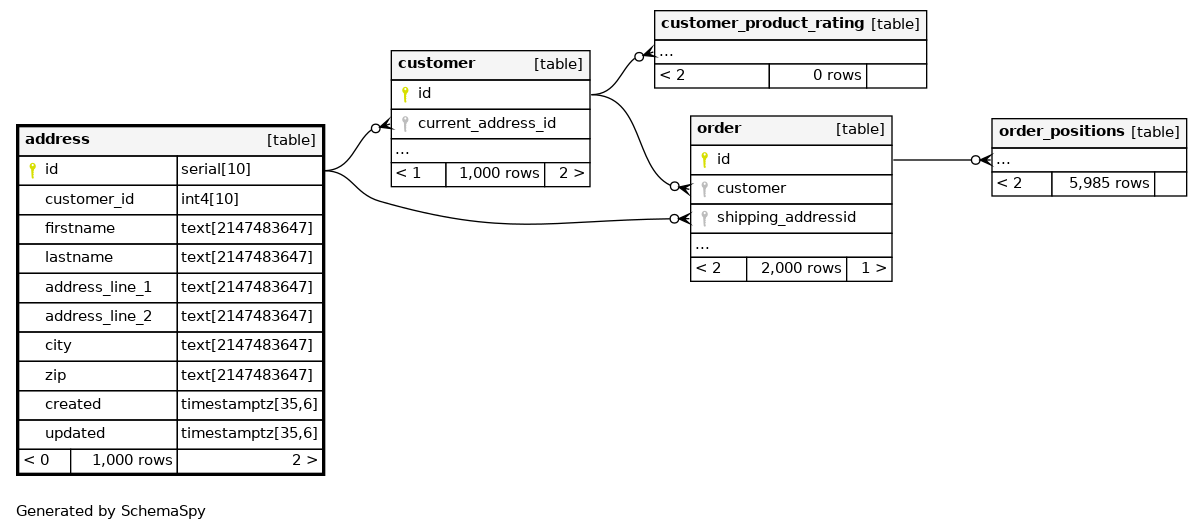
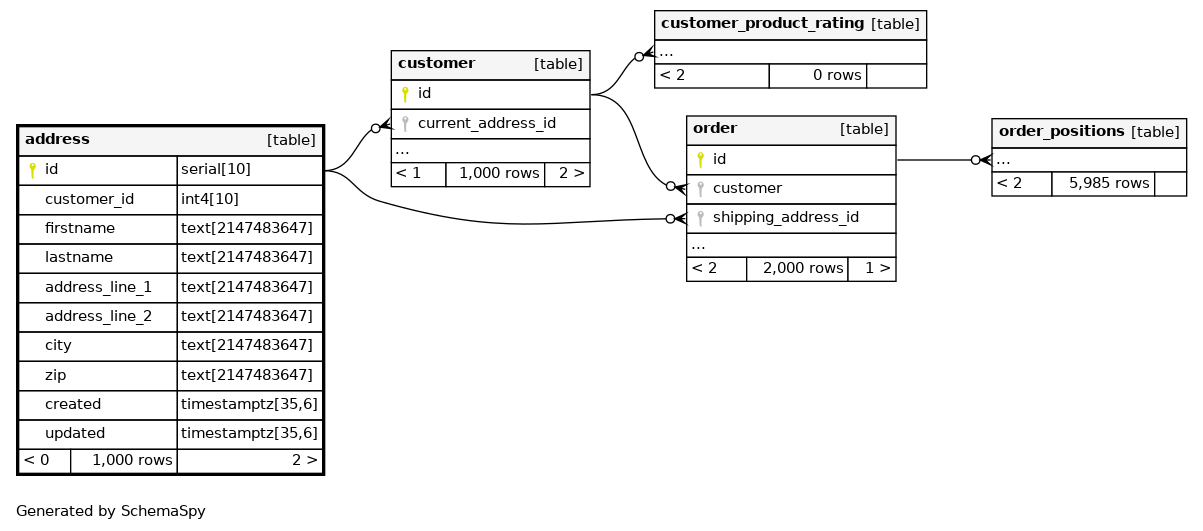
name cleanup

Changed region(s): [[0.5229, 0.2109, 0.7689, 0.5122], [0.4613, 0.3917, 0.5229, 0.4218]]

diff --git a/schema/tables/order.html b/schema/tables/order.html
@@ -194,7 +194,7 @@
 				 <td></td>
 				</tr>
 				<tr>
-				 <td class='foreignKey' title='Foreign Key'><i class='icon ion-key iconkey' style='padding-left: 5px;'></i><span id="shipping_addressid">shipping_addressid</span></td>
+				 <td class='foreignKey' title='Foreign Key'><i class='icon ion-key iconkey' style='padding-left: 5px;'></i><span id="shipping_address_id">shipping_address_id</span></td>
 				 <td>int4</td>
 				 <td>10</td>
 				 <td title='nullable'>√</td>
@@ -207,11 +207,11 @@
 				 <td>
 				  <table border='0' cellspacing='0' cellpadding='0'>
 				   <tr>
-					<td title="order.shipping_addressid references address.id via order_shipping_addressid_fkey">
+					<td title="order.shipping_address_id references address.id via order_shipping_address_id_fkey">
 						<a href='address.html'>address</a><span class='relatedKey'>.id</span>
 					</td>
 					<td class="constraint detail">
-						order_shipping_addressid_fkey <span title='Restrict delete:&#10;Parent cannot be deleted if children exist'>R</span>
+						order_shipping_address_id_fkey <span title='Restrict delete:&#10;Parent cannot be deleted if children exist'>R</span>
 					</td>
 				   </tr>
 				  </table>					 
@@ -236,7 +236,7 @@
 				 <td></td>
 				</tr>
 				<tr>
-				 <td><span id="shippingcost">shippingcost</span></td>
+				 <td><span id="shipping_cost">shipping_cost</span></td>
 				 <td>money</td>
 				 <td>2147483647</td>
 				 <td title='nullable'>√</td>
@@ -349,8 +349,8 @@
 					<map id="oneDegreeRelationshipsDiagram" name="oneDegreeRelationshipsDiagram">
 <area shape="rect" id="node1" href="customer.html" title="customer" alt="" coords="229,31,449,177">
 <area shape="rect" id="node2" href="address.html" title="address" alt="" coords="5,108,185,225">
-<area shape="rect" id="node3" href="order.html" title="order" alt="" coords="493,32,883,336">
-<area shape="rect" id="node4" href="order_positions.html" title="order_positions" alt="" coords="927,5,1143,181">
+<area shape="rect" id="node3" href="order.html" title="order" alt="" coords="493,32,891,336">
+<area shape="rect" id="node4" href="order_positions.html" title="order_positions" alt="" coords="935,5,1151,181">
 </map>
 
 					<a name='diagram'><img id='oneDegreeImg' src='../diagrams/order.1degree.png' usemap='#oneDegreeRelationshipsDiagram' class='diagram' border='0' alt='' align='left'></a>							
@@ -359,10 +359,10 @@
 					<map id="twoDegreesRelationshipsDiagram" name="twoDegreesRelationshipsDiagram">
 <area shape="rect" id="node1" href="customer.html" title="customer" alt="" coords="229,77,449,224">
 <area shape="rect" id="node2" href="address.html" title="address" alt="" coords="5,155,185,272">
-<area shape="rect" id="node3" href="customer_product_rating.html" title="customer_product_rating" alt="" coords="541,5,835,93">
-<area shape="rect" id="node4" href="order.html" title="order" alt="" coords="493,111,883,415">
-<area shape="rect" id="node5" href="order_positions.html" title="order_positions" alt="" coords="927,228,1143,404">
-<area shape="rect" id="node6" href="articles.html" title="articles" alt="" coords="593,432,783,520">
+<area shape="rect" id="node3" href="customer_product_rating.html" title="customer_product_rating" alt="" coords="545,5,839,93">
+<area shape="rect" id="node4" href="order.html" title="order" alt="" coords="493,111,891,415">
+<area shape="rect" id="node5" href="order_positions.html" title="order_positions" alt="" coords="935,228,1151,404">
+<area shape="rect" id="node6" href="articles.html" title="articles" alt="" coords="597,432,787,520">
 </map>
 
 					<a name='diagram'><img id='twodegreesDegreeImg' src='../diagrams/order.2degrees.png' usemap='#twoDegreesRelationshipsDiagram' class='diagram' border='0' alt='' align='left'></a>							

diff --git a/schema/tables/order_positions.html b/schema/tables/order_positions.html
@@ -322,24 +322,24 @@
             <div class="tab-content no-padding">            
 				<div class="chart tab-pane active" id="oneDegreeImg-chart" style="position: relative; overflow-x:auto;">					
 					<map id="oneDegreeRelationshipsDiagram" name="oneDegreeRelationshipsDiagram">
-<area shape="rect" id="node1" href="order_positions.html" title="order_positions" alt="" coords="272,56,627,331">
-<area shape="rect" id="node2" href="articles.html" title="articles" alt="" coords="15,199,219,345">
-<area shape="rect" id="node3" href="order.html" title="order" alt="" coords="5,5,228,181">
+<area shape="rect" id="node1" href="order_positions.html" title="order_positions" alt="" coords="280,56,635,331">
+<area shape="rect" id="node2" href="articles.html" title="articles" alt="" coords="19,199,223,345">
+<area shape="rect" id="node3" href="order.html" title="order" alt="" coords="5,5,236,181">
 </map>
 
 					<a name='diagram'><img id='oneDegreeImg' src='../diagrams/order_positions.1degree.png' usemap='#oneDegreeRelationshipsDiagram' class='diagram' border='0' alt='' align='left'></a>							
 				</div>
 				<div class="chart tab-pane " id="twodegreesDegreeImg-chart" style="position: relative; overflow-x:auto;">					
 					<map id="twoDegreesRelationshipsDiagram" name="twoDegreesRelationshipsDiagram">
-<area shape="rect" id="node1" href="articles.html" title="articles" alt="" coords="447,149,651,296">
+<area shape="rect" id="node1" href="articles.html" title="articles" alt="" coords="451,149,655,296">
 <area shape="rect" id="node2" href="products.html" title="products" alt="" coords="213,181,393,269">
-<area shape="rect" id="node3" href="cloth.html" title="cloth" alt="" coords="815,5,947,93">
+<area shape="rect" id="node3" href="cloth.html" title="cloth" alt="" coords="823,5,955,93">
 <area shape="rect" id="node4" href="customer.html" title="customer" alt="" coords="213,365,393,453">
 <area shape="rect" id="node5" href="address.html" title="address" alt="" coords="5,400,169,488">
-<area shape="rect" id="node6" href="order.html" title="order" alt="" coords="437,353,660,529">
-<area shape="rect" id="node7" href="order_positions.html" title="order_positions" alt="" coords="704,321,1059,596">
-<area shape="rect" id="node8" href="stock.html" title="stock" alt="" coords="795,111,968,199">
-<area shape="rect" id="node9" href="trousers.html" title="trousers" alt="" coords="802,216,961,304">
+<area shape="rect" id="node6" href="order.html" title="order" alt="" coords="437,353,668,529">
+<area shape="rect" id="node7" href="order_positions.html" title="order_positions" alt="" coords="712,321,1067,596">
+<area shape="rect" id="node8" href="stock.html" title="stock" alt="" coords="803,111,976,199">
+<area shape="rect" id="node9" href="trousers.html" title="trousers" alt="" coords="810,216,969,304">
 </map>
 
 					<a name='diagram'><img id='twodegreesDegreeImg' src='../diagrams/order_positions.2degrees.png' usemap='#twoDegreesRelationshipsDiagram' class='diagram' border='0' alt='' align='left'></a>							

diff --git a/schema/tables/address.html b/schema/tables/address.html
@@ -144,11 +144,11 @@
 					</td>
 				   </tr>
 				   <tr>
-					<td title="order.shipping_addressid references address.id via order_shipping_addressid_fkey">
-						<a href='order.html'>order</a><span class='relatedKey'>.shipping_addressid</span>
+					<td title="order.shipping_address_id references address.id via order_shipping_address_id_fkey">
+						<a href='order.html'>order</a><span class='relatedKey'>.shipping_address_id</span>
 					</td>
 					<td class="constraint detail">
-						order_shipping_addressid_fkey <span title='Restrict delete:&#10;Parent cannot be deleted if children exist'>R</span>
+						order_shipping_address_id_fkey <span title='Restrict delete:&#10;Parent cannot be deleted if children exist'>R</span>
 					</td>
 				   </tr>
 				  </table>				 
@@ -375,7 +375,7 @@
 					<map id="oneDegreeRelationshipsDiagram" name="oneDegreeRelationshipsDiagram">
 <area shape="rect" id="node1" href="customer.html" title="customer" alt="" coords="380,5,600,152">
 <area shape="rect" id="node2" href="address.html" title="address" alt="" coords="5,79,336,441">
-<area shape="rect" id="node3" href="order.html" title="order" alt="" coords="644,24,867,200">
+<area shape="rect" id="node3" href="order.html" title="order" alt="" coords="644,24,875,200">
 </map>
 
 					<a name='diagram'><img id='oneDegreeImg' src='../diagrams/address.1degree.png' usemap='#oneDegreeRelationshipsDiagram' class='diagram' border='0' alt='' align='left'></a>							
@@ -385,7 +385,7 @@
 <area shape="rect" id="node1" href="customer.html" title="customer" alt="" coords="380,45,600,192">
 <area shape="rect" id="node2" href="address.html" title="address" alt="" coords="5,119,336,481">
 <area shape="rect" id="node3" href="customer_product_rating.html" title="customer_product_rating" alt="" coords="644,5,937,93">
-<area shape="rect" id="node4" href="order.html" title="order" alt="" coords="679,111,902,287">
+<area shape="rect" id="node4" href="order.html" title="order" alt="" coords="675,111,906,287">
 <area shape="rect" id="node5" href="order_positions.html" title="order_positions" alt="" coords="981,113,1197,201">
 </map>
 

diff --git a/schema/relationships.html b/schema/relationships.html
@@ -103,7 +103,7 @@
 <area shape="rect" id="node4" href="tables/customer.html" title="customer" alt="" coords="229,155,449,301">
 <area shape="rect" id="node5" href="tables/customer_product_rating.html" title="customer_product_rating" alt="" coords="493,213,787,360">
 <area shape="rect" id="node6" href="tables/labels.html" title="labels" alt="" coords="13,392,177,509">
-<area shape="rect" id="node7" href="tables/order.html" title="order" alt="" coords="529,20,751,196">
+<area shape="rect" id="node7" href="tables/order.html" title="order" alt="" coords="525,20,755,196">
 <area shape="rect" id="node8" href="tables/order_positions.html" title="order_positions" alt="" coords="831,5,1047,181">
 <area shape="rect" id="node10" href="tables/stock.html" title="stock" alt="" coords="852,348,1025,495">
 <area shape="rect" id="node11" href="tables/trousers.html" title="trousers" alt="" coords="859,512,1018,629">
@@ -120,7 +120,7 @@
 <area shape="rect" id="node4" href="tables/customer.html" title="customer" alt="" coords="229,184,449,512">
 <area shape="rect" id="node5" href="tables/customer_product_rating.html" title="customer_product_rating" alt="" coords="493,336,787,488">
 <area shape="rect" id="node6" href="tables/labels.html" title="labels" alt="" coords="13,591,177,772">
-<area shape="rect" id="node7" href="tables/order.html" title="order" alt="" coords="529,20,751,319">
+<area shape="rect" id="node7" href="tables/order.html" title="order" alt="" coords="525,20,755,319">
 <area shape="rect" id="node8" href="tables/order_positions.html" title="order_positions" alt="" coords="831,5,1047,275">
 <area shape="rect" id="node10" href="tables/stock.html" title="stock" alt="" coords="852,476,1025,687">
 <area shape="rect" id="node11" href="tables/trousers.html" title="trousers" alt="" coords="859,704,1018,856">

diff --git a/schema/constraints.html b/schema/constraints.html
@@ -146,28 +146,6 @@
 				 <td><span title='Restrict delete:&#10;Parent cannot be deleted if children exist'>Restrict delete</span></td>
 				</tr>
 				<tr>
-				 <td>order_shipping_addressid_fkey</td>
-				 <td>
-				  <table border='0' cellspacing='0' cellpadding='0'>
-				   <tr>
-					<td>
-						<a href='tables/order.html'>order</a><span>.shipping_addressid</span>
-					</td>
-				   </tr>
-				  </table>				 
-				 </td>			 
-				 <td>
-				  <table border='0' cellspacing='0' cellpadding='0'>
-				   <tr>
-					<td>
-						<a href='tables/address.html'>address</a><span>.id</span>
-					</td>
-				   </tr>
-				  </table>				 
-				 </td>	
-				 <td><span title='Restrict delete:&#10;Parent cannot be deleted if children exist'>Restrict delete</span></td>
-				</tr>
-				<tr>
 				 <td>order_customer_fkey</td>
 				 <td>
 				  <table border='0' cellspacing='0' cellpadding='0'>
@@ -183,6 +161,28 @@
 				   <tr>
 					<td>
 						<a href='tables/customer.html'>customer</a><span>.id</span>
+					</td>
+				   </tr>
+				  </table>				 
+				 </td>	
+				 <td><span title='Restrict delete:&#10;Parent cannot be deleted if children exist'>Restrict delete</span></td>
+				</tr>
+				<tr>
+				 <td>order_shipping_address_id_fkey</td>
+				 <td>
+				  <table border='0' cellspacing='0' cellpadding='0'>
+				   <tr>
+					<td>
+						<a href='tables/order.html'>order</a><span>.shipping_address_id</span>
+					</td>
+				   </tr>
+				  </table>				 
+				 </td>			 
+				 <td>
+				  <table border='0' cellspacing='0' cellpadding='0'>
+				   <tr>
+					<td>
+						<a href='tables/address.html'>address</a><span>.id</span>
 					</td>
 				   </tr>
 				  </table>				 

diff --git a/schema/tables/customer.html b/schema/tables/customer.html
@@ -367,7 +367,7 @@
 <area shape="rect" id="node1" href="customer.html" title="customer" alt="" coords="229,5,616,339">
 <area shape="rect" id="node2" href="address.html" title="address" alt="" coords="5,251,185,368">
 <area shape="rect" id="node3" href="customer_product_rating.html" title="customer_product_rating" alt="" coords="660,8,953,155">
-<area shape="rect" id="node4" href="order.html" title="order" alt="" coords="695,215,918,391">
+<area shape="rect" id="node4" href="order.html" title="order" alt="" coords="691,215,922,391">
 </map>
 
 					<a name='diagram'><img id='oneDegreeImg' src='../diagrams/customer.1degree.png' usemap='#oneDegreeRelationshipsDiagram' class='diagram' border='0' alt='' align='left'></a>							
@@ -378,7 +378,7 @@
 <area shape="rect" id="node2" href="address.html" title="address" alt="" coords="5,137,185,255">
 <area shape="rect" id="node3" href="customer_product_rating.html" title="customer_product_rating" alt="" coords="660,275,953,421">
 <area shape="rect" id="node4" href="products.html" title="products" alt="" coords="333,436,513,524">
-<area shape="rect" id="node5" href="order.html" title="order" alt="" coords="695,5,918,181">
+<area shape="rect" id="node5" href="order.html" title="order" alt="" coords="691,5,922,181">
 <area shape="rect" id="node6" href="order_positions.html" title="order_positions" alt="" coords="997,8,1213,96">
 </map>
 

diff --git a/schema/columns.html b/schema/columns.html
@@ -625,7 +625,7 @@
 					<tr>
 					 <td>order</td>
 					 <td>Table</td>
-					 <td>shippingcost</td>
+					 <td>shipping_cost</td>
 					 <td>money</td>
 					 <td>2147483647</td>
 					 <td title='nullable'>√</td>
@@ -944,7 +944,7 @@
 					<tr>
 					 <td>order</td>
 					 <td>Table</td>
-					 <td class='foreignKey' title='Foreign Key'><i class='icon ion-key iconkey' style='padding-left: 5px;'></i>shipping_addressid</td>
+					 <td class='foreignKey' title='Foreign Key'><i class='icon ion-key iconkey' style='padding-left: 5px;'></i>shipping_address_id</td>
 					 <td>int4</td>
 					 <td>10</td>
 					 <td title='nullable'>√</td>

diff --git a/schema/index.html b/schema/index.html
@@ -81,7 +81,7 @@
 			<div class="col-md-12">
 				<div class="callout callout-info">
 					<h4>SchemaSpy Analysis of mywebshop</h4>
-					<p>Generated on Mon Nov 27 14:30 CET 2023</p>
+					<p>Generated on Mon Nov 27 14:33 CET 2023</p>
 				</div>
 			</div>
 		</div>
